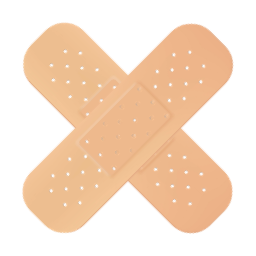
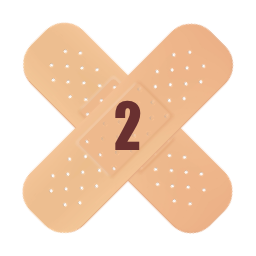
Add fix-commits

Changed region(s): [[0.4375, 0.375, 0.5625, 0.5938]]

diff --git a/src/all-badges/fix-commit/fix-commit.ts b/src/all-badges/fix-commit/fix-commit.ts
@@ -1,0 +1,63 @@
+import { BadgePresenter, Grant, Present } from '../../badges.js'
+import { Commit } from '../../collect/collect.js'
+
+export default new (class implements BadgePresenter {
+  url = new URL(import.meta.url)
+  badges = [
+    'fix-2',
+    'fix-3',
+    'fix-4',
+    'fix-5',
+    'fix-6',
+    'fix-6+', // For more than 6
+  ] as const
+  present: Present = (data, grant) => {
+    for (const repo of data.repos) {
+      let sequentialFixes = 0
+      let previousCommitDate = null
+      let evidence: Commit[] = []
+
+      for (const commit of repo.commits) {
+        const currentCommitDate = new Date(commit.committedDate)
+
+        // If the commit message contains "fix" and is within a 15-minute span of the previous commit
+        if (
+          commit.message.includes('fix') &&
+          (previousCommitDate === null ||
+            currentCommitDate.getTime() - previousCommitDate.getTime() <=
+              15 * 60 * 1000)
+        ) {
+          sequentialFixes++
+          evidence.push(commit)
+        } else {
+          this.grantBadge(sequentialFixes, grant, evidence)
+          evidence = commit.message.includes('fix') ? [commit] : []
+          sequentialFixes = evidence.length
+        }
+
+        previousCommitDate = currentCommitDate
+      }
+
+      // Check for any remaining sequences after exiting the loop
+      if (sequentialFixes > 0) {
+        this.grantBadge(sequentialFixes, grant, evidence)
+      }
+    }
+  }
+
+  grantBadge(count: number, grant: Grant, evidence: Commit[]) {
+    let description = `Granted for making ${count} sequential fixes.`
+
+    if (count === 2) grant('fix-2', description).evidenceCommits(...evidence)
+    else if (count === 3)
+      grant('fix-3', description).evidenceCommits(...evidence)
+    else if (count === 4)
+      grant('fix-4', description).evidenceCommits(...evidence)
+    else if (count === 5)
+      grant('fix-5', description).evidenceCommits(...evidence)
+    else if (count === 6)
+      grant('fix-6', description).evidenceCommits(...evidence)
+    else if (count > 6)
+      grant('fix-6+', description).evidenceCommits(...evidence)
+  }
+})()

diff --git a/src/badges.ts b/src/badges.ts
@@ -1,8 +1,14 @@
 import { allBadges } from './all-badges/index.js'
 import { Data, Commit, Pull } from './collect/collect.js'
-import { linkCommit, linkPull } from './utils.js'
+import { expectType, linkCommit, linkPull } from './utils.js'
 import { fileURLToPath } from 'url'
 import * as path from 'path'
+
+for (const {
+  default: { badges },
+} of allBadges) {
+  expectType<readonly [string, ...string[]]>(badges)
+}
 
 export type ID = (typeof allBadges)[number]['default']['badges'][number]
 
@@ -12,10 +18,9 @@ export interface BadgePresenter {
   present: Present
 }
 
-export type Present = (
-  data: Data,
-  grant: ReturnType<typeof badgeCollection>,
-) => void
+export type Grant = ReturnType<typeof badgeCollection>
+
+export type Present = (data: Data, grant: Grant) => void
 
 export type Badge = {
   id: ID

diff --git a/src/utils.ts b/src/utils.ts
@@ -7,7 +7,7 @@ export function linkCommit(commit: Commit): string {
 }
 
 export function linkPull(pull: Pull): string {
-  return `<a href=https://github.com/${pull.repository.owner.login}/${pull.repository.name}/pull/${pull.number}>#${pull.number}</a>`
+  return `<a href="https://github.com/${pull.repository.owner.login}/${pull.repository.name}/pull/${pull.number}">#${pull.number}</a>`
 }
 
 export function quoteAttr(s: string) {
@@ -20,3 +20,5 @@ export function quoteAttr(s: string) {
     .replace(/\r\n/g, '&#13;')
     .replace(/[\r\n]/g, '&#13;')
 }
+
+export const expectType = <T>(expression: T) => void 0

diff --git a/src/all-badges/star-gazer/star-gazer.ts b/src/all-badges/star-gazer/star-gazer.ts
@@ -4,7 +4,7 @@ export default new (class implements BadgePresenter {
   url = new URL(import.meta.url)
   badges = ['star-gazer'] as const
   present: Present = (data, grant) => {
-    if (data.user.starredRepositories.totalCount >= 1000) {
+    if (data.user.starredRepositories?.totalCount >= 1000) {
       grant('star-gazer', "I'm a star gazer!").evidence(
         "I've starred over 1000 repositories!",
       )

diff --git a/src/all-badges/index.ts b/src/all-badges/index.ts
@@ -9,4 +9,5 @@ export const allBadges = [
   await import('./mass-delete-commit/mass-delete-commit.js'),
   await import('./revert-revert-commit/revert-revert-commit.js'),
   await import('./my-badges-contributor/my-badges-contributor.js'),
+  await import('./fix-commit/fix-commit.js'),
 ] as const
